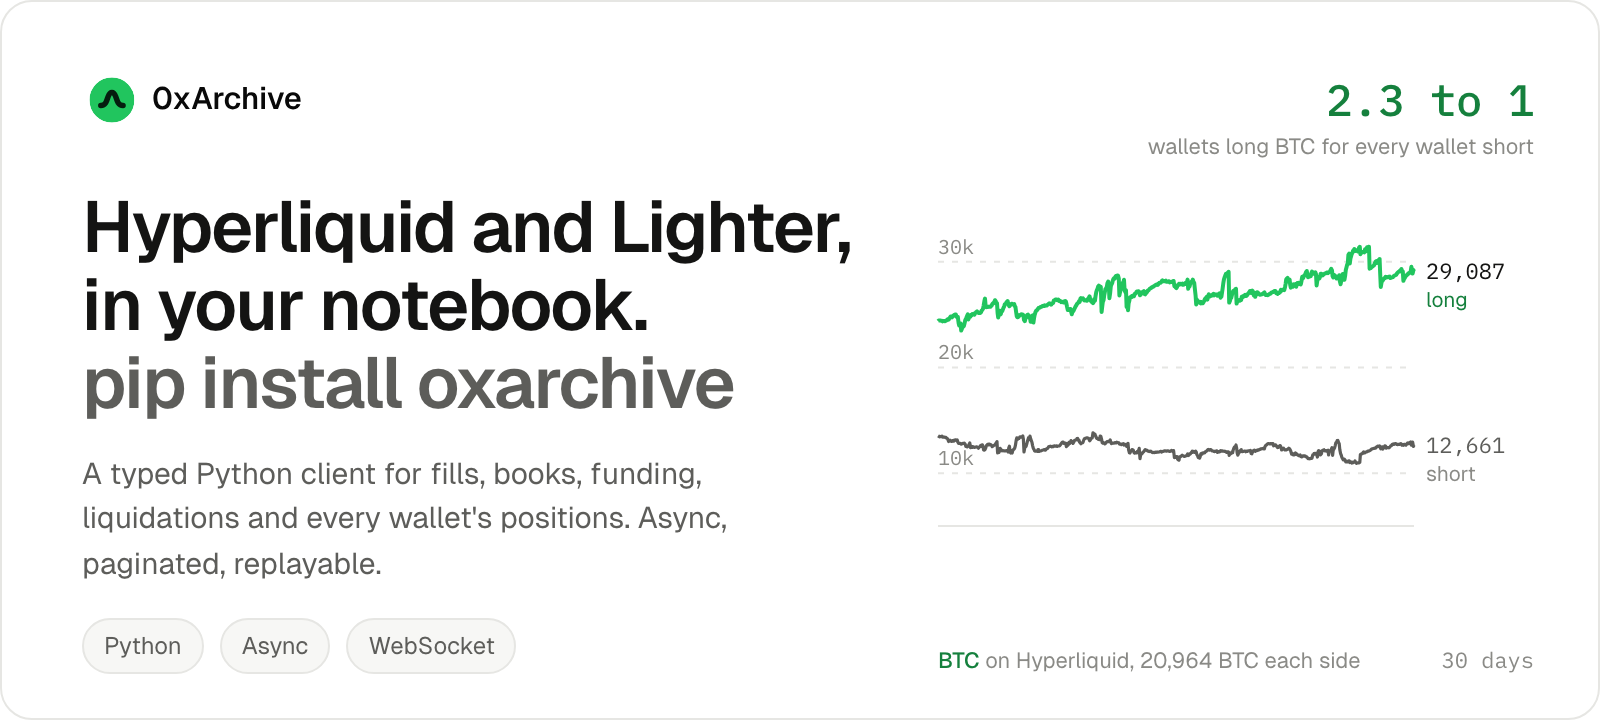
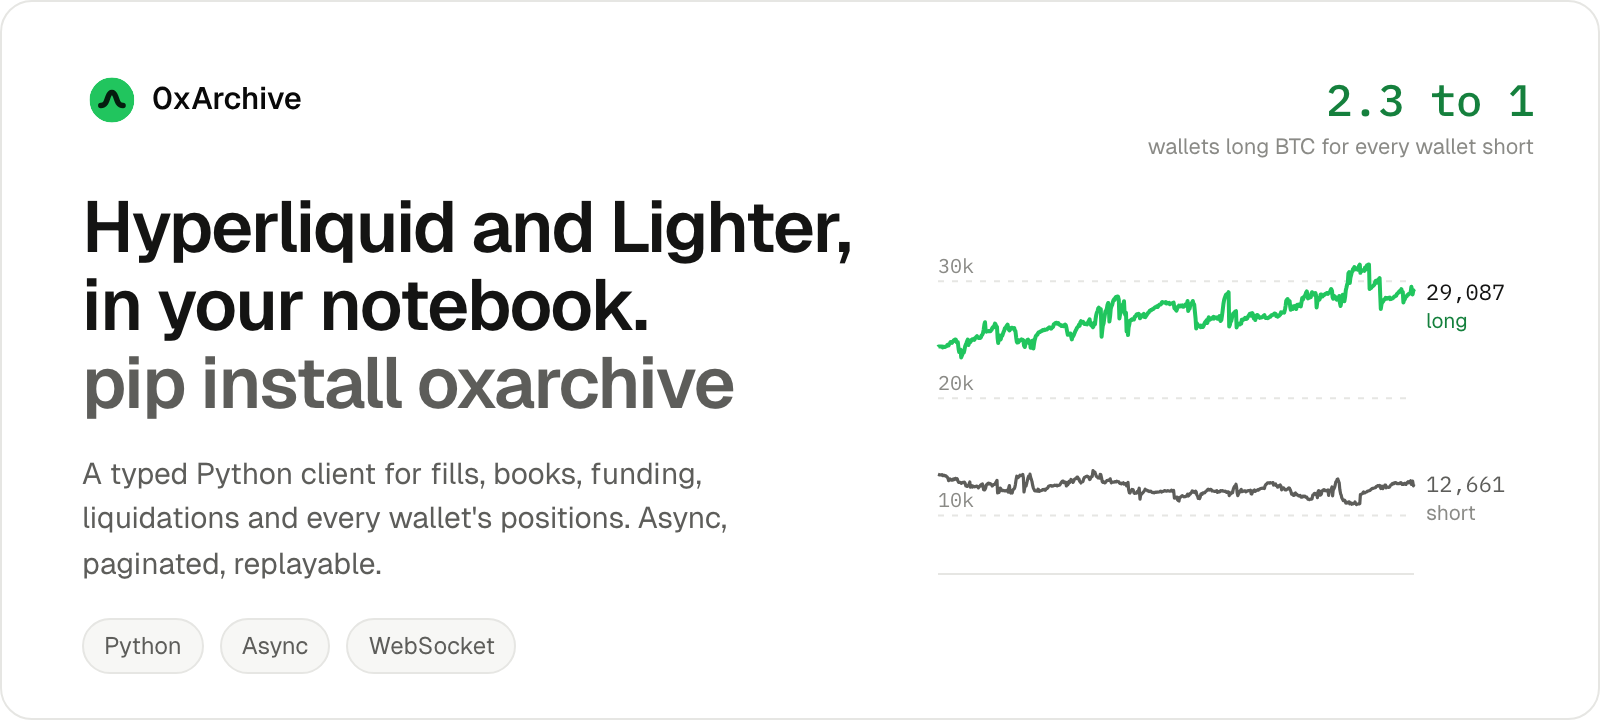
README: drop the dated captions from the hero and the intro

diff --git a/README.md b/README.md
@@ -13,8 +13,6 @@
 
 Pull Hyperliquid and Lighter market data into Python as typed objects: order books, fills, funding, open interest, liquidations and every wallet's positions, live or back through history.
 
-<sub>The chart: `client.hyperliquid.positions.iterate_market_summary("BTC", ...)`, hourly from 2026-09-26 to 2026-10-26. Both sides hold the same 20,964 BTC; the long side is spread over 29,087 wallets, the short side over 12,661.</sub>
-
 ## Highlights
 
 - **Two venues, one client.** Hyperliquid core perps, HIP-3, HIP-4 and Spot, and Lighter on mainnet and Robinhood Chain, as `client.hyperliquid`, `client.hyperliquid.hip3`, `client.hyperliquid.hip4`, `client.spot`, `client.lighter` and `client.rh_lighter`.
